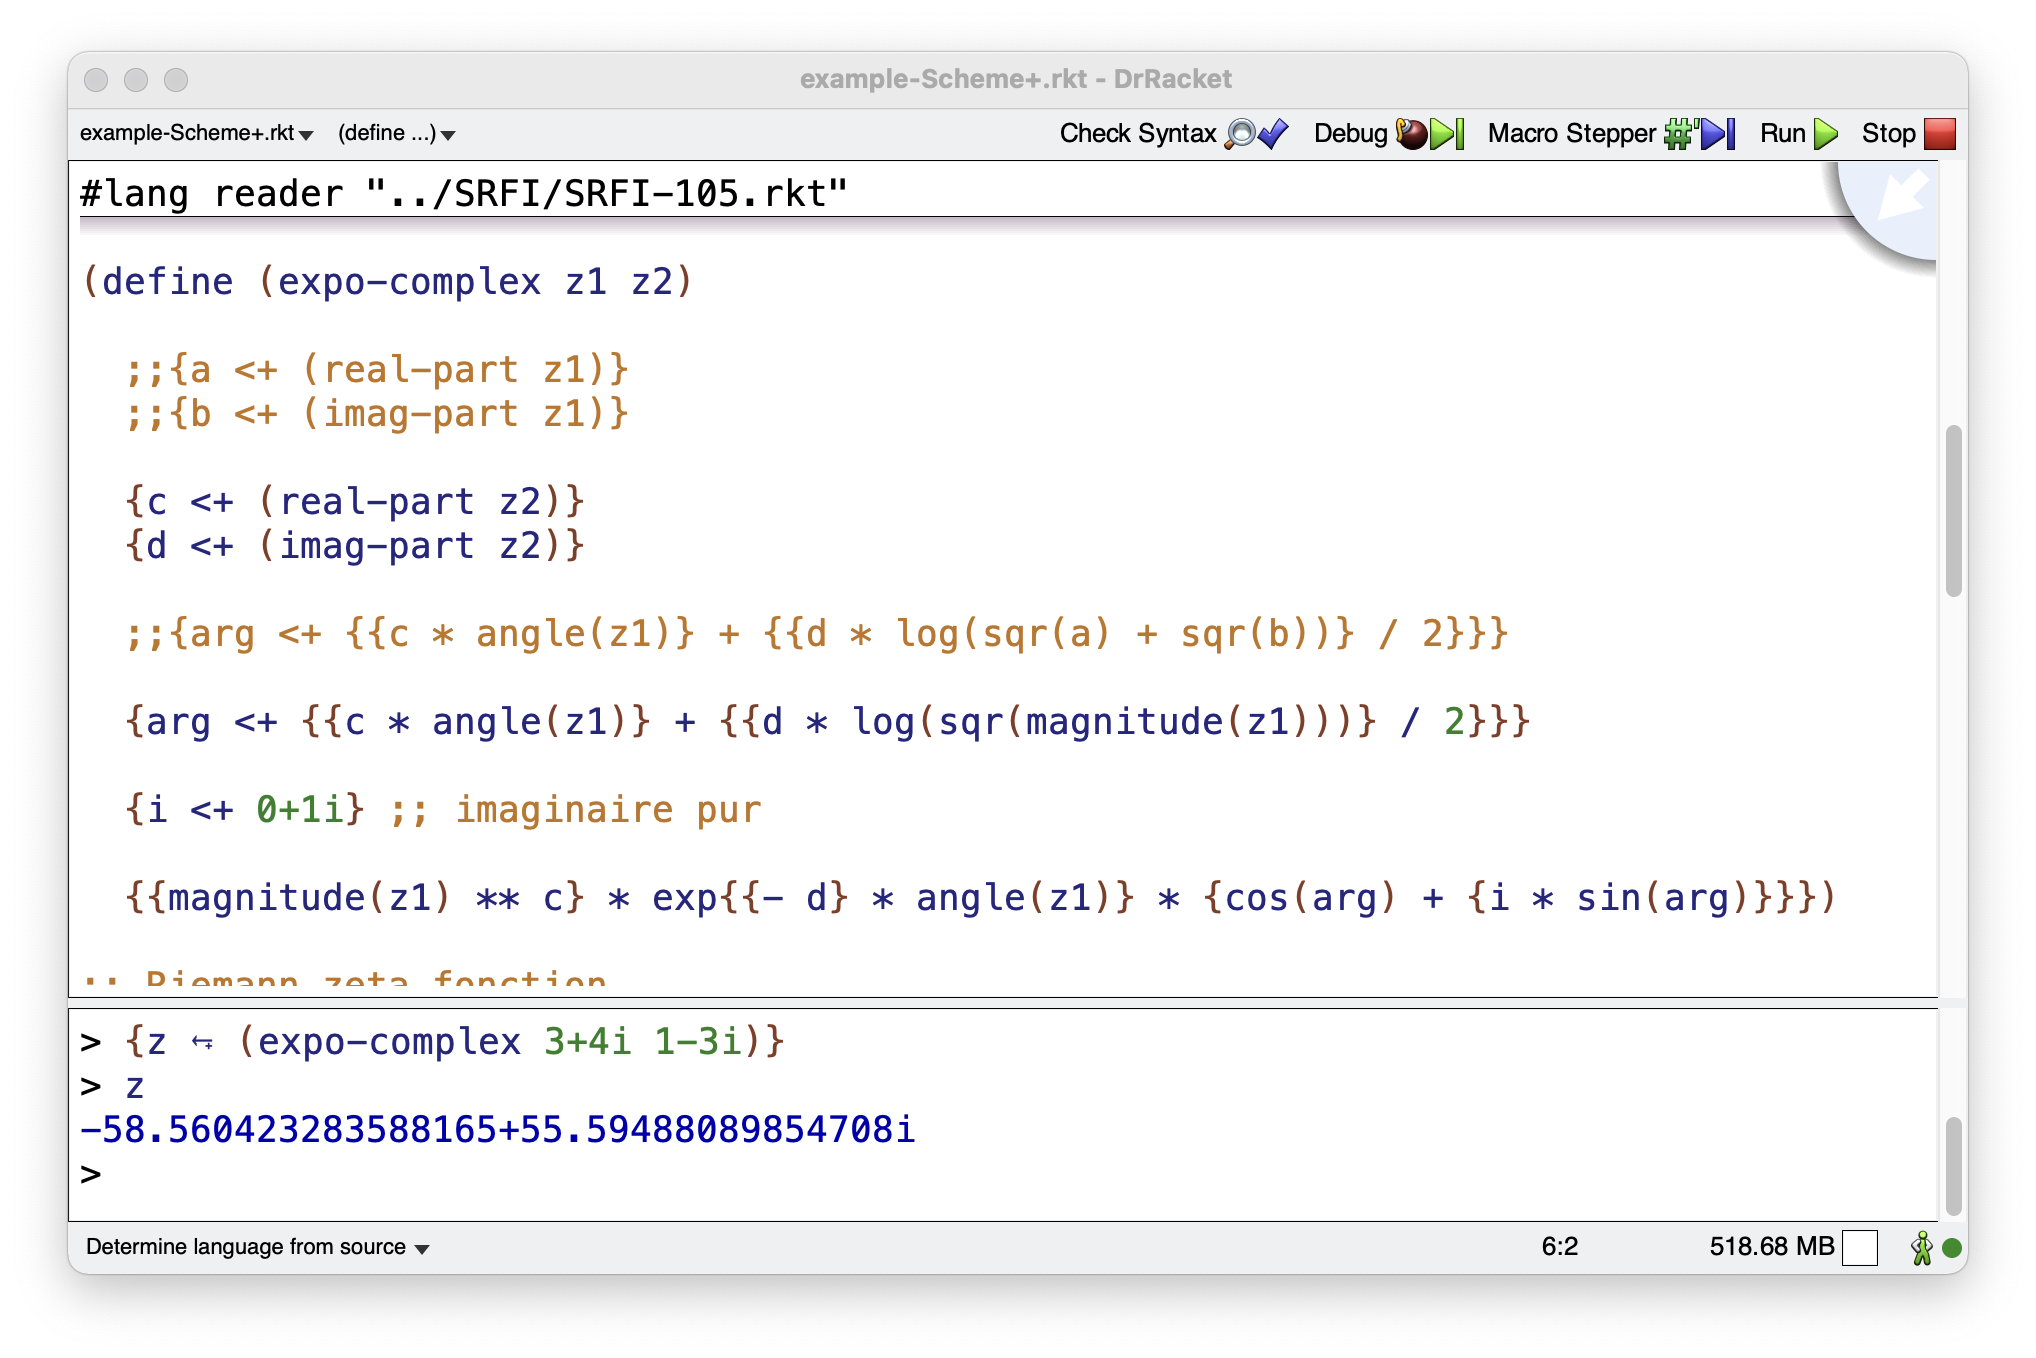
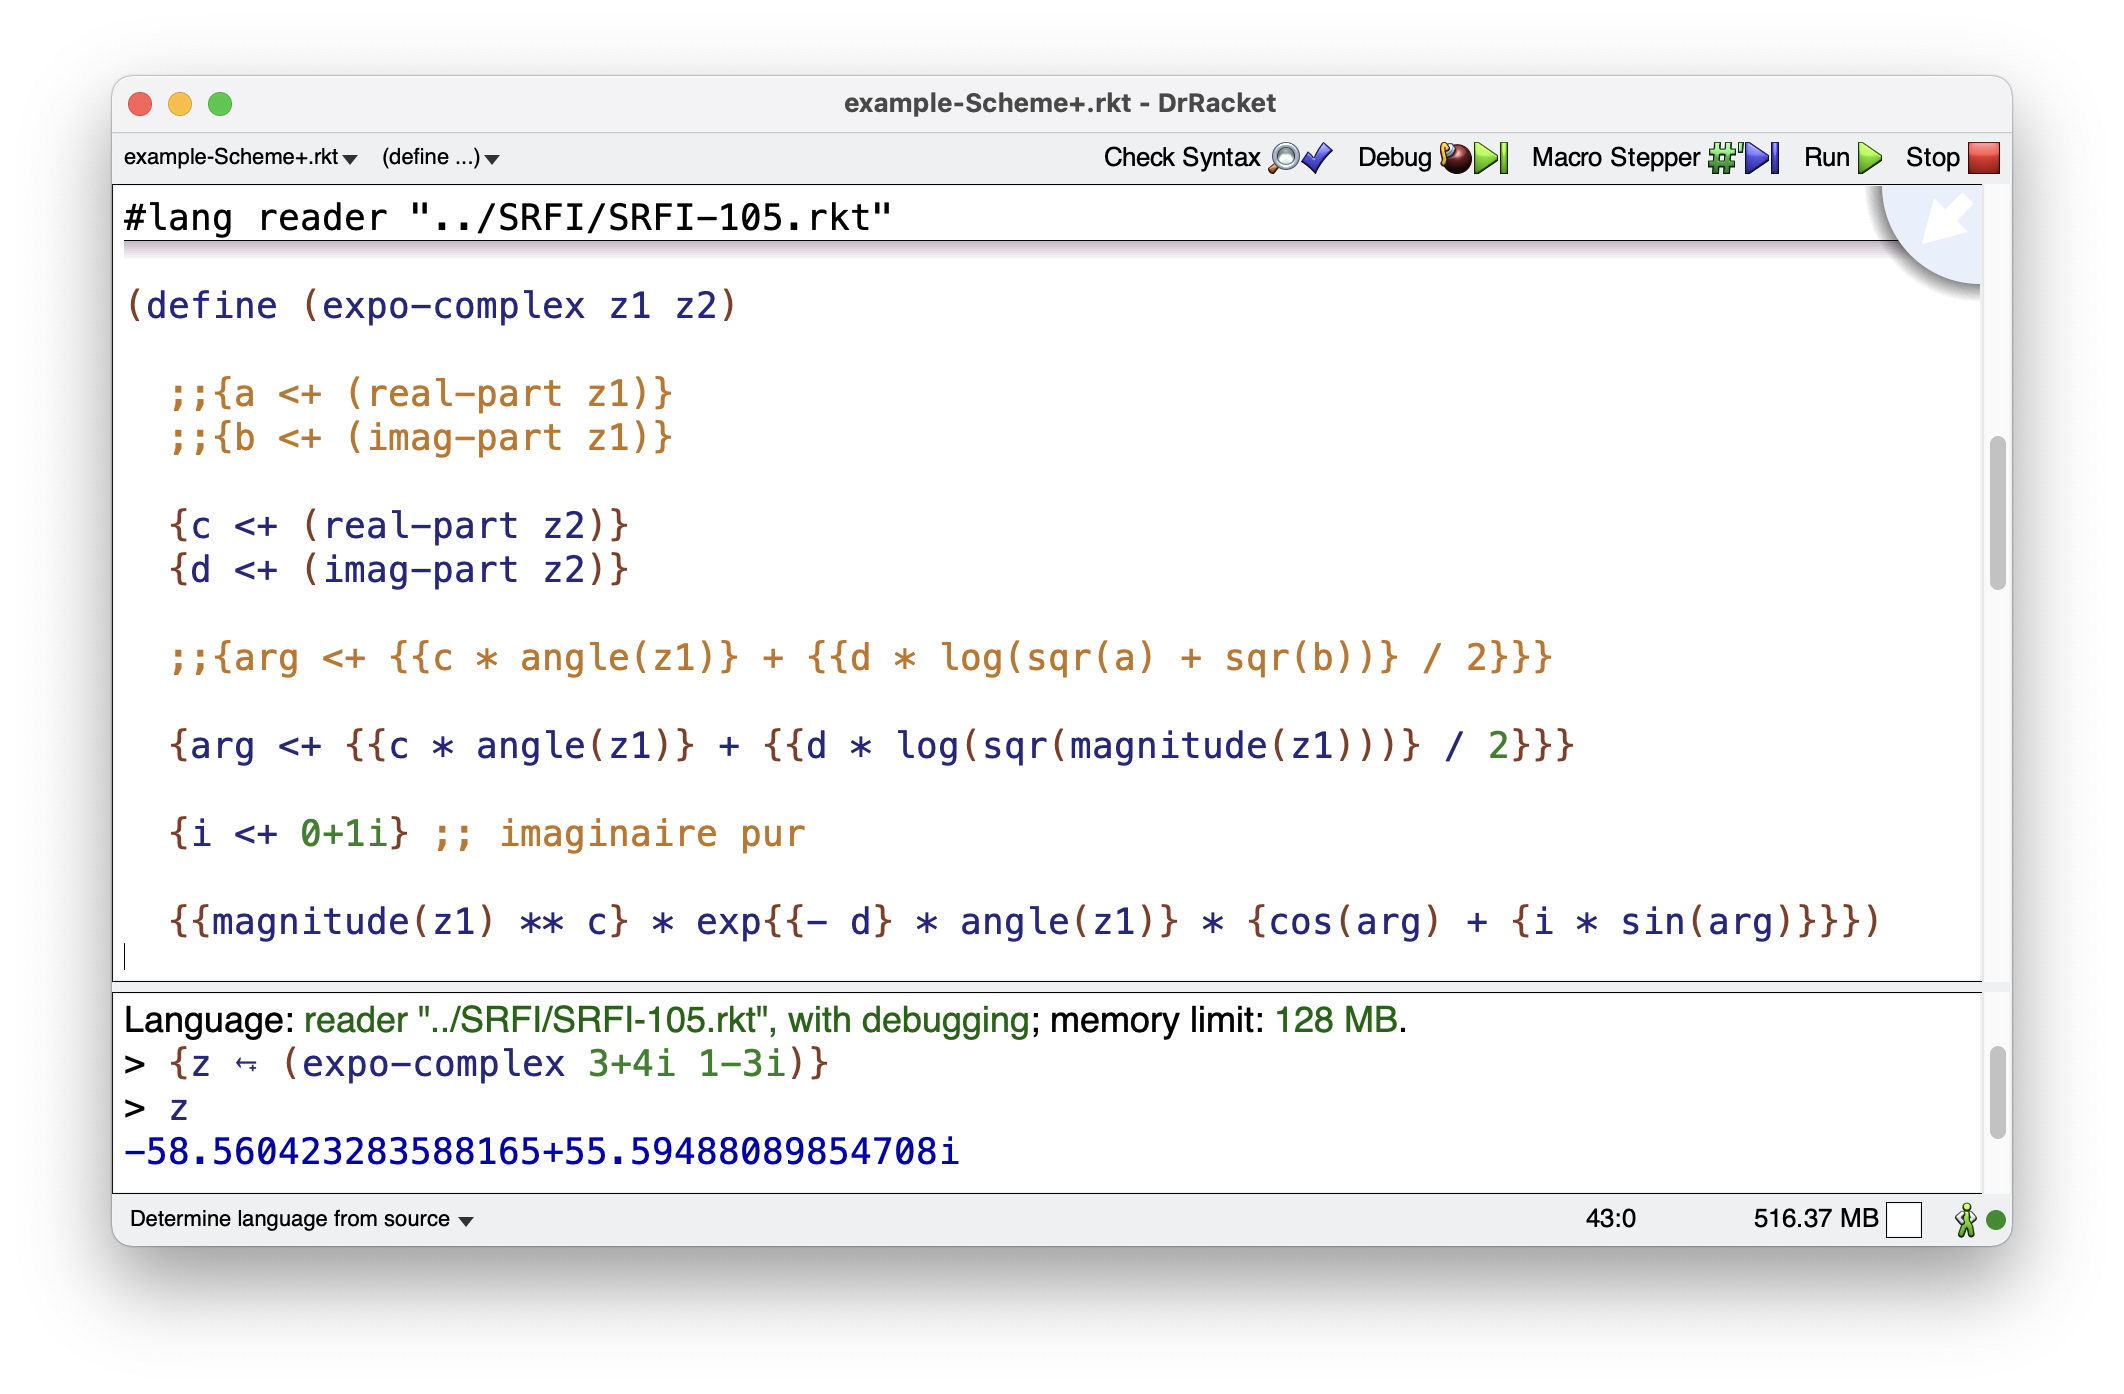
Racket app image example dim

Changed region(s): [[0.0309, 0.0309, 0.9902, 0.9588]]

diff --git a/Scheme+.html b/Scheme+.html
@@ -19,6 +19,7 @@
 
 
 
+
           Scheme (and Lisp-like) language. </i></span></h2>
     <h2 style=" text-align: center;">Damien Mattei<br>
     </h2>
@@ -49,7 +50,9 @@
 
 
 
+
         infix </b><b>(works also in prefix) </b><b>notation </b><b>with
+
 
 
 
@@ -65,6 +68,7 @@
         enhanced.</b><br>
     </p>
     <p>The <b>idea</b> of <b>Scheme+</b> is came from this : <b><i>"Why
+
 
 
 
@@ -135,8 +139,10 @@ href="https://apple.stackexchange.com/questions/183045/how-can-i-type-unicode-ch
 
 
 
+
           + 1}]</b>} </b>in infix or the same with a little part of
       classic prefix Scheme:&nbsp; <b>{T</b><b>[k] &lt;- </b><b><b>T</b><b>[(+
+
 
 
 
@@ -151,6 +157,7 @@ href="https://apple.stackexchange.com/questions/183045/how-can-i-type-unicode-ch
       dimension array T indexed by m and n</p>
     <div style="margin-left: 40px;"> </div>
     <p style="margin-left: 40px;"><b><b>{</b>T</b><b>[m n] &lt;- </b><b><b>T</b><b>[m
+
 
 
 
@@ -174,6 +181,7 @@ href="https://apple.stackexchange.com/questions/183045/how-can-i-type-unicode-ch
       </b></p>
     <div style="margin-left: 40px;"> </div>
     <p style="margin-left: 40px;"> no more need of <strike>LET,LET*,LETREC,LET-VALUES</strike>,...
+
 
 
 
@@ -285,8 +293,8 @@ href="https://apple.stackexchange.com/questions/183045/how-can-i-type-unicode-ch
       Loop):</p>
     <p> </p>
     <img moz-do-not-send="true" src="img/racket-example.png"
-      alt="example Racket scheme+ complex exponential" width="1300"
-      height="867"><br>
+      alt="example Racket scheme+ complex exponential" width="1100"
+      height="722"><br>
     <p> </p>
     <br>
     <p>Hash Tables support :</p>
@@ -311,6 +319,7 @@ href="https://apple.stackexchange.com/questions/183045/how-can-i-type-unicode-ch
 
 
 
+
         implementation of Scheme</a> can be retrieved here: </p>
     <p> </p>
     <h3 style=" text-align: center;">&gt;&gt;&gt;&nbsp;&nbsp;<a
@@ -330,6 +339,7 @@ href="https://github.com/damien-mattei/Scheme-PLUS-for-Guile/tarball/main"
     <h3 style=" text-align: center;">&gt;&gt;&gt;&nbsp;&nbsp; <a
         href="https://github.com/damien-mattei/Scheme-PLUS-for-Guile"
         target="_blank">https://github.com/damien-mattei/Scheme-PLUS-for-Guile
+
 
 
 
@@ -422,8 +432,10 @@ href="https://github.com/damien-mattei/Scheme-PLUS-for-Guile/tarball/main"
 
 
 
+
         Mattei </b>under <a
         href="https://www.gnu.org/licenses/gpl-3.0.txt" target="_blank">GNU
+
 
 
 
@@ -554,6 +566,7 @@ href="https://www.gnu.org/software/guile/manual/html_node/Installing-Site-Packag
 
 
 
+
       and will use an unique infix (or not) assignment operator : &lt;-.
       (also LET are enhanced - the project historically by improving and
       simplifying LET, i simplified it so much that i remove it now! -
@@ -572,6 +585,7 @@ href="https://www.gnu.org/software/guile/manual/html_node/Installing-Site-Packag
       <li>Assignment operator : <b>&lt;-</b> (can be used in infix
         syntax and from left to right and right to left)</li>
       <li>Square Bracket operator<b> []</b> working with Scheme <b>Vectors,
+
 
 
 
@@ -704,6 +718,7 @@ href="https://www.gnu.org/software/guile/manual/html_node/Installing-Site-Packag
         versions of Scheme+</b>. (we will see another more complex
       example with multidimentional array later)</p>
     <p>So <b>{x &lt;- 7} </b>simply assign 7 to the variable x but <b>{m[3]
+
 
 
 
@@ -874,9 +889,11 @@ href="https://en.wikipedia.org/wiki/Subset_sum_problem#Pseudo-polynomial_time_dy
 
 
 
+
         statements </i>...]</p>
     <div style="margin-left: 40px;"> </div>
     <p style="text-align: left; margin-left: 40px;">&nbsp;&nbsp;&nbsp;&nbsp;&nbsp;&nbsp;&nbsp;&nbsp;&nbsp;&nbsp;&nbsp;
+
 
 
 
@@ -934,9 +951,11 @@ href="https://en.wikipedia.org/wiki/Subset_sum_problem#Pseudo-polynomial_time_dy
 
 
 
+
       ...</p>
     <div style="margin-left: 40px;"> </div>
     <p style="text-align: left; margin-left: 40px;">&nbsp;&nbsp;&nbsp;&nbsp;&nbsp;&nbsp;&nbsp;&nbsp;&nbsp;&nbsp;&nbsp;
+
 
 
 
@@ -1196,6 +1215,7 @@ href="https://en.wikipedia.org/wiki/Subset_sum_problem#Pseudo-polynomial_time_dy
 
 
 
+
       [<b>exec</b><i> statements ... </i>]</p>
     <p style="text-align: left;">&nbsp;&nbsp;&nbsp;&nbsp;&nbsp;&nbsp;&nbsp;&nbsp;&nbsp;&nbsp;&nbsp;
 
@@ -1225,8 +1245,10 @@ href="https://en.wikipedia.org/wiki/Subset_sum_problem#Pseudo-polynomial_time_dy
 
 
 
+
       ...</p>
     <p style="text-align: left;">&nbsp;&nbsp;&nbsp;&nbsp;&nbsp;&nbsp;&nbsp;&nbsp;&nbsp;&nbsp;&nbsp;
+
 
 
 
@@ -1290,6 +1312,7 @@ href="https://en.wikipedia.org/wiki/Subset_sum_problem#Pseudo-polynomial_time_dy
 
 
 
+
       of the classic define we can now use <b>return</b> to escape
       immediately returning the value v:</p>
     <p style="text-align: left;"><b>(return </b>v<b>) </b><b> </b></p>
@@ -1300,6 +1323,7 @@ href="https://en.wikipedia.org/wiki/Subset_sum_problem#Pseudo-polynomial_time_dy
       </b></p>
     <p style="text-align: left;">But <b>begin</b> is dual in Scheme, it
       expands differently in <i>expression </i>context and <i>definition
+
 
 
 
@@ -1335,6 +1359,7 @@ href="https://en.wikipedia.org/wiki/Subset_sum_problem#Pseudo-polynomial_time_dy
       expression context in: (define x 1)<br>
     </p>
     <p style="text-align: left;">for this reason i provide a <b>&amp; </b>macro
+
 
 
 
@@ -1395,6 +1420,7 @@ href="https://lists.gnu.org/archive/html/guile-devel/2021-09/msg00031.html"
     <p>Scheme+ will be implemented for other Scheme. Racket (former
       DrScheme) first,....</p>
     <p>Next version will integrate more features, concerning <b>multiple
+
 
 
 
@@ -1566,6 +1592,7 @@ href="https://lists.gnu.org/archive/html/guile-devel/2021-09/msg00031.html"
     <p> <img
         src="https://upload.wikimedia.org/wikipedia/commons/9/9f/APL-keybd2.svg"
         alt="IBM 2741 keyboard layout" title="IBM 2741 keyboard layout">IBM
+
 
 
 

diff --git a/index.md b/index.md
@@ -273,8 +273,8 @@ you want)<br>
   <p>Another example with Racket Scheme in the REPL (Read Eval Print Loop):</p>
     <p> </p>
 <img moz-do-not-send="true" src="img/racket-example.png"
-alt="example Racket scheme+ complex exponential" width="1300"
-height="867"><br>
+alt="example Racket scheme+ complex exponential" width="1100"
+height="722"><br>
 <p> </p> 
 <br>
 <p>Hash Tables support :</p>
